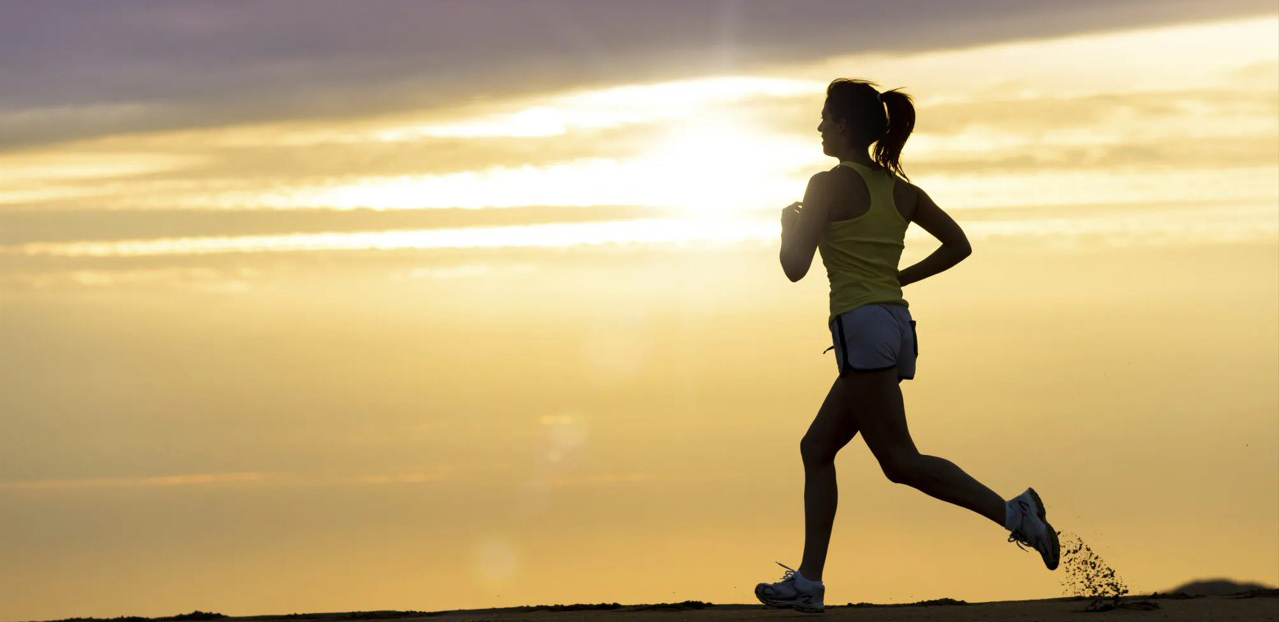
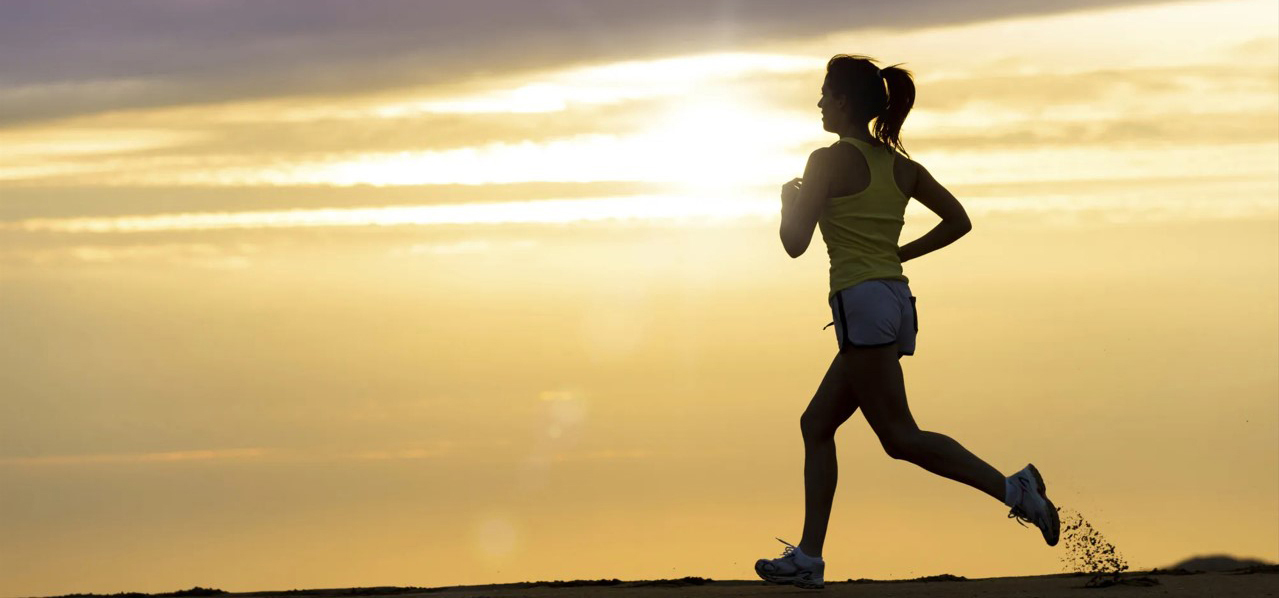
dress-section

diff --git a/index.html b/index.html
@@ -6,6 +6,7 @@
     <link rel="preconnect" href="https://fonts.googleapis.com">
     <link rel="preconnect" href="https://fonts.gstatic.com" crossorigin>
     <link href="https://fonts.googleapis.com/css2?family=Poppins:wght@400;500;600&family=Roboto+Slab:wght@600&display=swap" rel="stylesheet">
+    <script src="https://kit.fontawesome.com/f0c0829e22.js" crossorigin="anonymous"></script>
     <link rel="stylesheet" href="style.css">
     <link rel="shortcut icon" href="Images/icon.png" type="image/x-icon">
     <title>Fitness World</title>
@@ -13,8 +14,7 @@
 <body>
     <!-- header start -->
     <header>
-        <nav>
-            
+        <nav> 
             <div class="allnav">
                 <div class="logo">
                     <img src="Images/Your paragraph text (4).png" alt="">
@@ -36,6 +36,50 @@
         </nav>
     </header>
     <!-- header end -->
-
+    <!-- section start -->
+    <main>
+        <!-- dress section start -->
+        <div class="alldress" id="dress">
+            <div class="alt">
+                <h2>Dress-collection</h2>
+                <div class="allcard">
+                    <div class="card">
+                        <img id="ed1" src="Images/dress-1.png" alt="">
+                        <div class="alltext">
+                            <h3 class="tx1">$100</h3>
+                            <h4 class="txx"><del>$120</del><sup> -20%</sup></h4>
+                            <a href="#">Add to card</a>
+                        </div>
+                    </div>
+                    <div class="card">
+                        <img id="ed2" src="Images/dress-2.png" alt="">
+                        <div class="alltext">
+                            <h3 class="tx2">$100</h3>
+                            <h4  class="txx"><del>$120</del><sup> -20%</sup></h4>
+                            <a href="#">Add to card</a>
+                        </div>
+                    </div>
+                    <div class="card">
+                        <img id="ed3" src="Images/dress-3.png" alt="">
+                        <div class="alltext">
+                            <h3 class="tx3">$100</h3>
+                            <h4 class="txx"><del>$120</del><sup> -20%</sup></h4>
+                            <a href="#">Add to card</a>
+                        </div>
+                    </div>
+                    <div class="card">
+                        <img id="ed4" src="Images/dress-4.png" alt="">
+                        <div class="alltext">
+                            <h3 class="tx4">$100</h3>
+                            <h4 class="txx"><del>$120</del><sup> -20%</sup></h4>
+                            <a href="#">Add to card</a>
+                        </div>
+                    </div>
+                </div>
+            </div>
+        </div>
+        <!-- dress section end -->
+    </main>
+    <!-- section end -->
 </body>
 </html>

diff --git a/style.css b/style.css
@@ -2,6 +2,7 @@
     margin: 0;
     font-family: 'Poppins', sans-serif;
 }
+/* header start */
 
 .allnav {
     display: flex;
@@ -26,13 +27,99 @@
 }
 .banner {
     background-image: url(Images/top-bannerr.jpg);
-    height: 102vh;
+    height: 100vh;
+    width: 100%;
     background-repeat: no-repeat;
-    background-size: contain;
+    background-size: cover;
+    box-sizing: border-box;
+    background-attachment: fixed;
+    background-position: center;
 }
 .bannerop {
     background-color: #ea8aff;
     opacity: 0.5;
-    height: 656px;
+    height: 100vh;
     width: 100%;
 }
+/* header end */
+/* dress-section start */
+.alldress {
+    width: 100%;
+    display: flex;
+    justify-content: space-evenly;
+    background-color: rgb(239, 207, 253);
+}
+.alt {
+    width: 87%;
+    margin-top: 50px;
+}
+.alt h2 {
+    margin-left: 15px;
+    color: rgb(68, 2, 82);
+}
+.allcard {
+    display: flex;
+}
+.card {
+    box-shadow: rgba(0, 0, 0, 0.25) 0px 14px 28px, rgba(0, 0, 0, 0.22) 0px 10px 10px;
+    border-radius: 10px;
+    margin: 15px;
+    height: 400px;
+    width: 50%;
+    background-color: #f4d8f8;
+}
+.card img {
+    height: auto;
+    width: 90%;
+    
+}
+
+#ed1 {
+    margin-top: -25px;
+}
+#ed2 {
+    margin-top: -5px;
+}
+#ed3 {
+    margin: -42px 0px 0px 20px;
+}
+#ed4 {
+    margin-top: -30px;
+}
+.alltext {
+    padding-left: 10px;
+    background-color: rgb(167, 171, 172);
+    margin-top: -20px;
+}
+.tx1 {
+    margin-top: 17px;
+    color: rgb(68, 2, 82);
+}
+.tx2 {
+    color: rgb(68, 2, 82);
+}
+.tx3 {
+    margin-top: 30px;
+    color: rgb(68, 2, 82);
+}
+.tx4 {
+    margin-top: 22px;
+    color: rgb(68, 2, 82);
+}
+.txx {
+    color: rgb(255, 191, 0);
+}
+.alltext a {
+    text-decoration: none;
+    background-color: #af00d6;
+    padding: 8px 15px;
+    border-radius: 7px;
+    float: right;
+    margin: -45px 10px 0px 0px;
+    color: white;
+}
+/* dress-section end */
+
+/* watch-section start */
+
+/* watch-section end */
